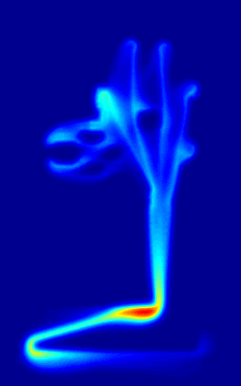
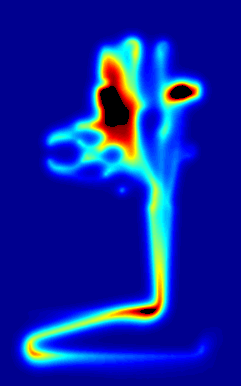
Test_load_map: mehr Pfeile, plan4.png

diff --git a/test_load_map.m b/test_load_map.m
@@ -1,18 +1,20 @@
 % Which maps shall be drawn?
 
 %draw_these = 1:n_goals; 
-draw_these = [1 4 5];
+draw_these = [1];
 
 
 parameters; 
 load_map;
 
-global fields_x fields_y n_goals map_pretty map_x map_y;
+global fields_x fields_y n_goals v0_mean tau_alpha map_pretty map_x map_y;
 
 n_plots = size(draw_these,2);
 
-space_x = floor(linspace(1,map_x, 100));
-space_y = floor(linspace(1,map_y, 100));
+space_x = floor(linspace(1,map_x, 400));
+space_y = floor(linspace(1,map_y, 400));
+
+f = v0_mean / tau_alpha;
 
 for i = draw_these;
     
@@ -29,5 +31,10 @@ for i = draw_these;
     quiver(space_y, space_x, ...
            field_x(space_x, space_y), field_y(space_x, space_y),...
            'Color','b');
+       
+    quiver(space_y, space_x, ...
+           field_x(space_x, space_y)+f*e_alpha_x(space_x, space_y),...
+           field_y(space_x, space_y)+f*e_alpha_y(space_x, space_y),...
+           'Color','r');
     
 end

diff --git a/parameters.m b/parameters.m
@@ -31,16 +31,16 @@ global ...
 
 % General
 
-agent_number = 300;
+agent_number = 200;
 dt = .1;
 noplot = false;
 video_on = false;
 log_on = true;
-duration = 4000; % frames
+duration = 3000; % frames
 
 % Map
 meter = 15; % px/m, according to:
-map_file = 'grundrissplan2.png'; % Bitmap file for goals and walls
+map_file = 'grundrissplan4.png'; % Bitmap file for goals and walls
 
 % Map colors  % Value / Tolerance
 hue_goal = [0.3 0.1]; % green
@@ -63,7 +63,7 @@ sqrt_theta = 0.26*meter; % m/s standard deviation of gaussian distributed v0_mea
 
 A1 = 0*meter;
 B1 = 0.2*meter;
-A2 = 3*meter; % m/s^2
+A2 = 3*meter  *10; % m/s^2  % cheat!
 B2 = 0.2*meter; % m
 
 sight = 1.5*meter;
